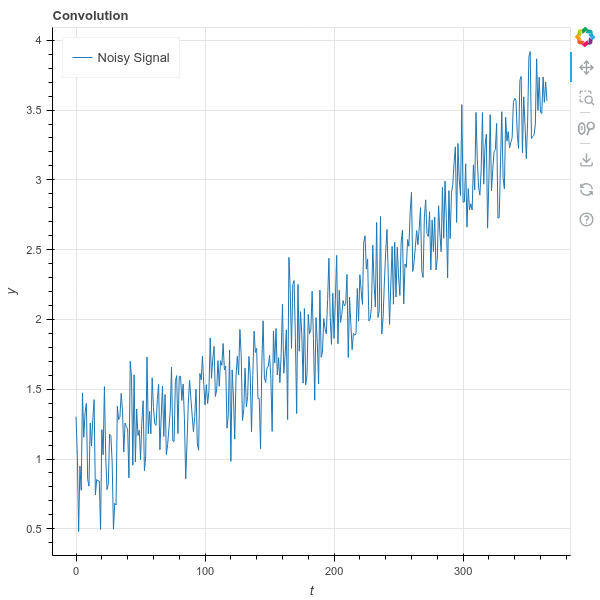
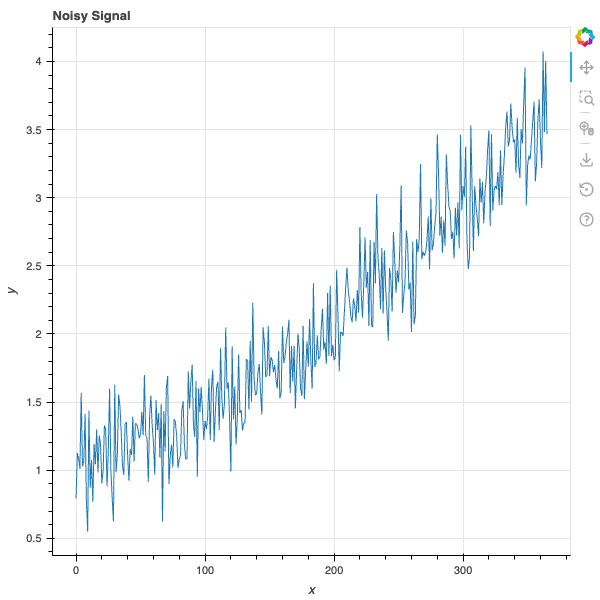
working on convolution

diff --git a/chapters/07-neural-networks.md b/chapters/07-neural-networks.md
@@ -328,7 +328,7 @@ might be the price of the stock of a company that is overall growing but that bo
 
 We are interested in identifying the underlying trend, and filtering out the noise.  One standard method for doing this is to use a "moving average" -- that is, to replace each value $f(t)$ by the average of the values of $f$ in a window near $t$.  More formally we choose a step size $\delta$ and a "window size" $k$ and let
 $$
-\hat{f}(t) = \frac{1}{2k+1}\sum_{i=-k}^{k} f(t+i*\delta)
+\hat{f}(t) = \frac{1}{2k+1}\sum_{i=-k}^{k} f(t+i\delta)
 $$
 
 We have to make some decisions here about what to do at the beginning and end
@@ -374,16 +374,20 @@ $$
 
 From this fancier point of view, the moving average over a window of length, say, $5$, is the case where $h(k)=1/5$ for $k=-2,-1,0,1,2$ and is zero elsewhere.  Then
 $$
-(h\star f)(t) = \frac{f(t-2\delta)+f(t-\delta)+f(t)+f(t+\delta)+f(t+2\delta})}{5}
+(h\star f)(t) = \frac{f(t-2\delta)+f(t-\delta)+f(t)+f(t+\delta)+f(t+2\delta}{5}
 $$
 which is the usual average. 
 
 
 As an example,  consider the technique called "exponential smoothing", in which we replace the value of $f$ at a time $t$ with the average of some window of its past values, but we weight those past values with an exponentially decaying factor $\lambda$.  We
-let $h(k)=\lambda^{k}(\lambda-1)/(\lambda^{N+1}-1)$ for $N\ge k\ge 0$ and $h(k)=0$ for $k<0$ and $k>N$.   The constant $(\lambda-1)/(\lambda^{N+1}-1)$ is chosen
+let 
+$$h(k)=\lambda^{k}(\lambda-1)/(\lambda^{N+1}-1)$$
+ for $N\ge k\ge 0$ and $h(k)=0$ for $k<0$ and $k>N$.   
+ 
+ The constant $(\lambda-1)/(\lambda^{N+1}-1)$ is chosen
 so that the sum of the values of $h$ add up to one.  From convolution we obtain:
 $$
-(h\star f)(t) = \frac{\lambda-1}{\lambda^{N+1}-1}\sum_{k=0}^{N} \lambda^{-k}f(t-k\delta).
+(h\star f)(t) = \frac{\lambda-1}{\lambda^{N+1}-1}\sum_{k=0}^{N} \lambda^{k}f(t-k\delta).
 $$
 
 
